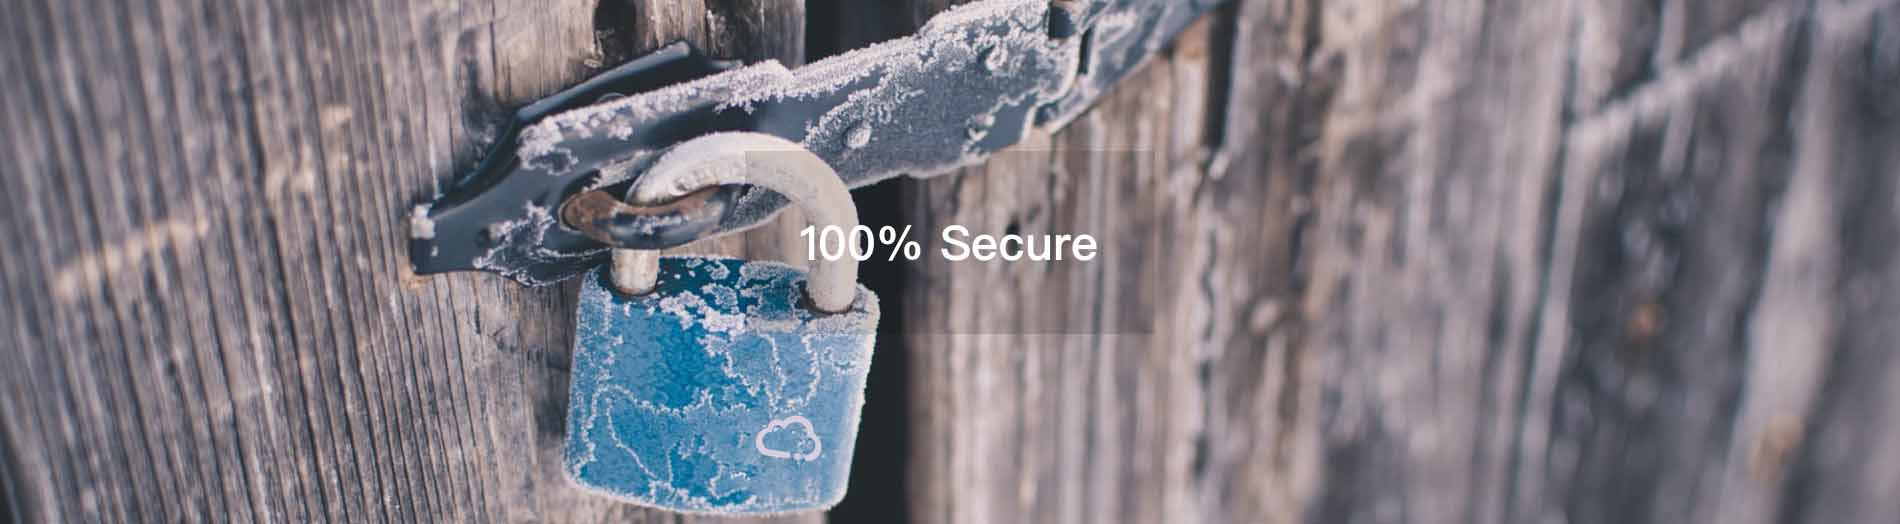
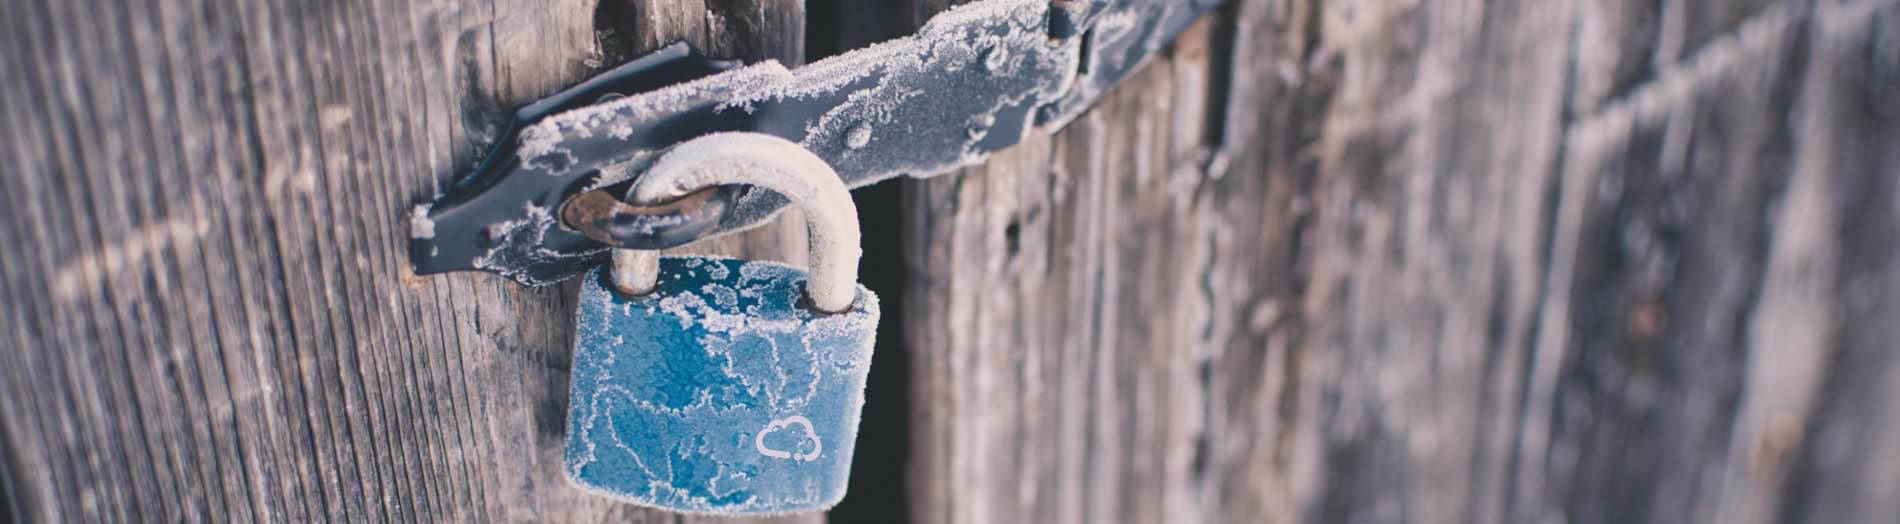
modify landing images effect

Changed region(s): [[0.3726, 0.2748, 0.6211, 0.6412]]

diff --git a/static/css/mystyle.css b/static/css/mystyle.css
@@ -1,0 +1,37 @@
+.bannertext{
+	text-align: center;
+	font-size:48px;
+	color:#ffffff;
+	text-align: center;
+	line-height: 180px;
+	}
+.header-back {
+    position: relative;
+    width: 500px;
+    height: 1900px;
+    }
+.demo{
+	position: absolute;
+    height: 180px;
+    width: 410px;
+    top: 50%;
+    left: 50%;
+    margin-top: -90px;
+    margin-left: -205px;
+
+  background-color: rgba(0,0,0,0.16);/* IE9、标准浏览器、IE6和部分IE7内核的浏览器(如QQ浏览器)会读懂 */
+}
+.demo p{
+  color: #000000;
+}
+@media \0screen\,screen\9 {/* 只支持IE6、7、8 */
+  .demo{
+    background-color:#000000;
+    filter:Alpha(opacity=50);
+    position:static; /* IE6、7、8只能设置position:static(默认属性) ，否则会导致子元素继承Alpha值 */
+    *zoom:1; /* 激活IE6、7的haslayout属性，让它读懂Alpha */
+  }
+  .demo p{
+    position: relative;/* 设置子元素为相对定位，可让子元素不继承Alpha值 */
+  }  
+}

diff --git a/index.html b/index.html
@@ -52,8 +52,11 @@ permalink: /
                 </div>
             </div>
             <!-- Set background for slide in css -->
-            <div class="header-back one"></div>
-
+            <div class="header-back one bannertext"> 
+                <div class="demo">
+                    100% Secure
+                </div>
+            </div>
         </div>
         <div class="item">
             <div class="container">
@@ -61,7 +64,11 @@ permalink: /
                 </div>
             </div>
             <!-- Set background for slide in css -->
-            <div class="header-back two"></div>
+            <div class="header-back two bannertext">
+                <div class="demo">
+                    Easy to Use
+                </div>
+            </div>
         </div>
     </div>
     <a class="left carousel-control" href="#inSlider" role="button" data-slide="prev">
